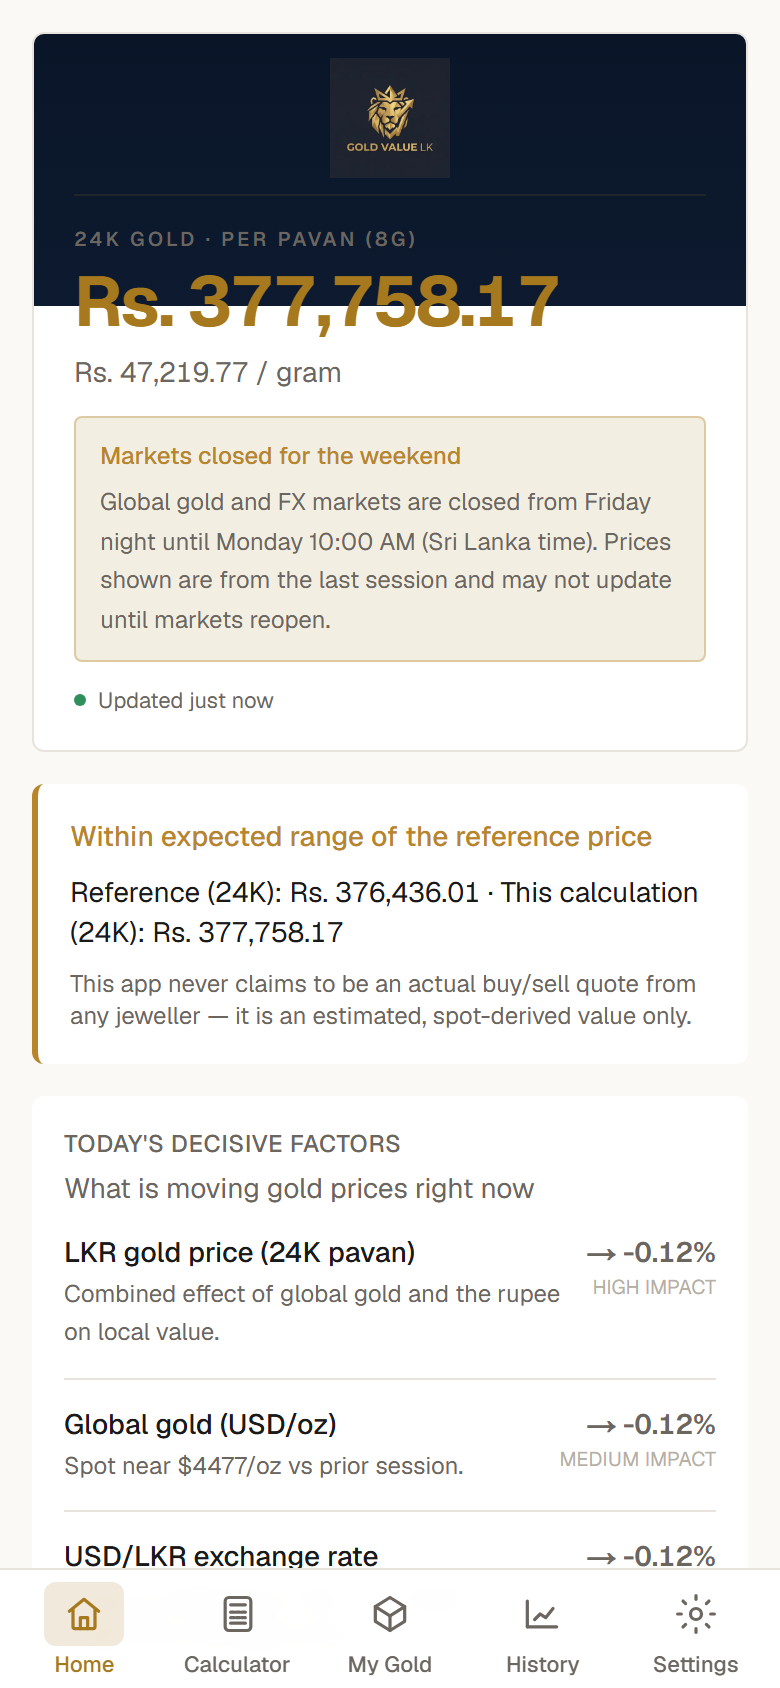
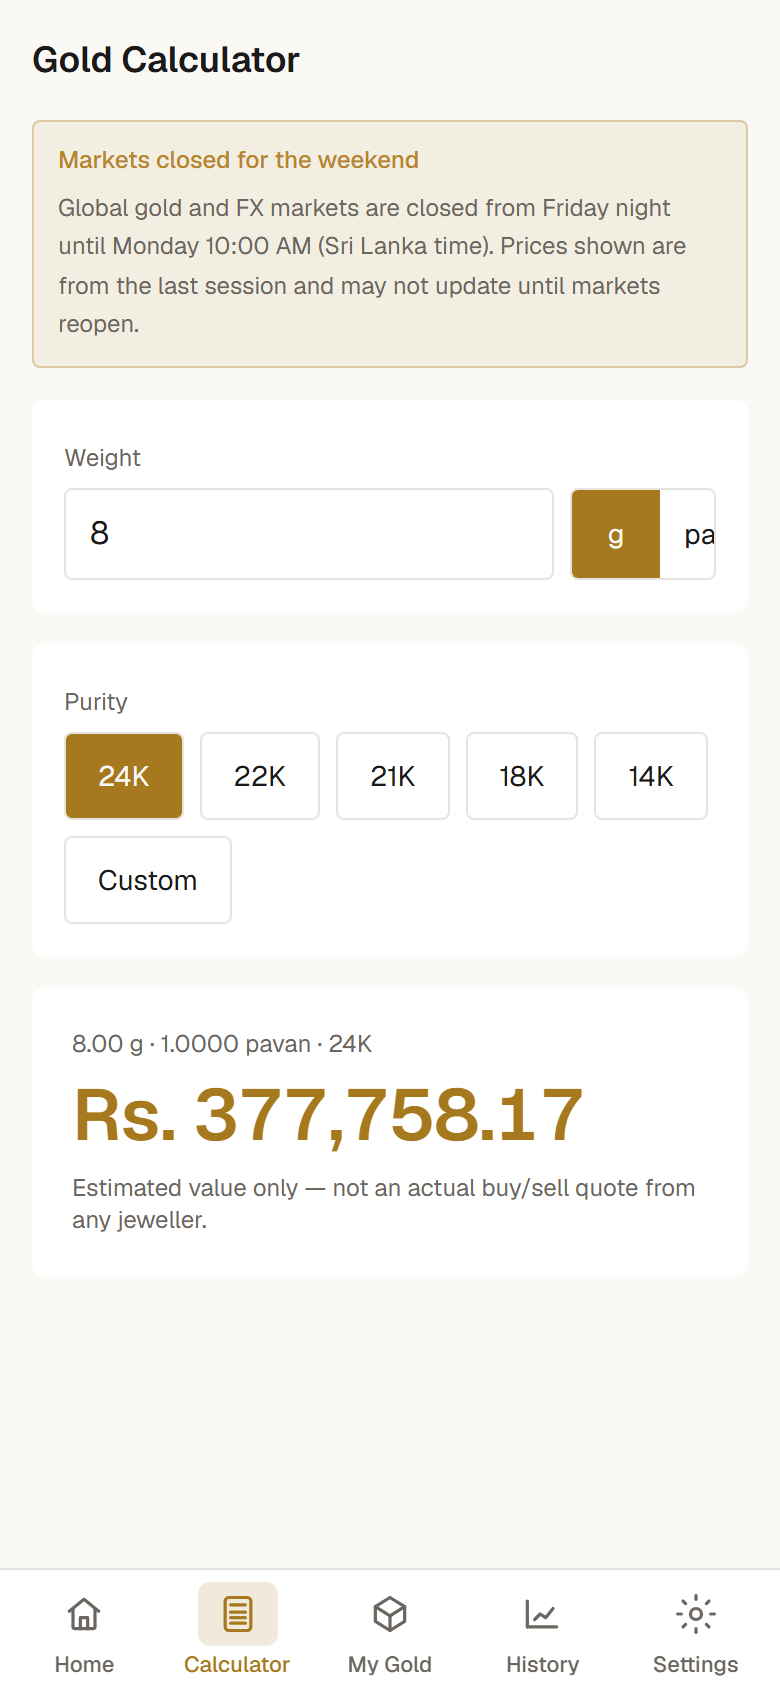
Fix Gold Calculator screenshot framing and capture calculator UI.
Use a phone aspect frame in product visuals and recapture the calculator screen so the portfolio image fills cleanly without letterboxing.

diff --git a/src/components/ProductVisual.tsx b/src/components/ProductVisual.tsx
@@ -28,6 +28,9 @@ export function ProductVisual({
     <div
       className={cn(
         "relative overflow-hidden rounded-2xl border border-ink-100 bg-white shadow-sm",
+        isMobile
+          ? "mx-auto aspect-[9/19] w-full max-w-[280px]"
+          : "aspect-[4/3]",
         className,
       )}
       role="img"
@@ -48,8 +51,9 @@ export function ProductVisual({
 
       <div
         className={cn(
-          "relative aspect-[4/3]",
-          isMobile ? "bg-ink-950" : "bg-ink-100",
+          "relative overflow-hidden",
+          isMobile ? "bg-[#f7f4ef]" : "bg-ink-100",
+          isMobile ? "h-full" : "aspect-[4/3]",
         )}
       >
         {product.screenshot ? (
@@ -58,11 +62,7 @@ export function ProductVisual({
             alt={`Screenshot of ${product.name}`}
             fill
             unoptimized
-            className={cn(
-              isMobile
-                ? "object-contain object-center"
-                : "object-cover object-top",
-            )}
+            className="object-cover object-top"
             sizes="(max-width: 768px) 100vw, (max-width: 1200px) 50vw, 720px"
           />
         ) : (

diff --git a/src/app/products/page.tsx b/src/app/products/page.tsx
@@ -107,7 +107,7 @@ export default function ProductsPage() {
 
               <Reveal className={cn(reversed && "lg:order-1")}>
                 <div className="rounded-3xl bg-gradient-to-b from-ink-50 to-white p-4 shadow-[0_30px_60px_-30px_rgba(11,13,20,0.35)] ring-1 ring-ink-100 md:p-6">
-                  <ProductVisual product={product} className="aspect-[4/3]" />
+                  <ProductVisual product={product} />
                 </div>
                 <p className="mt-4 text-center text-xs text-ink-400">
                   {product.presentationGoal}

diff --git a/src/components/ProductCard.tsx b/src/components/ProductCard.tsx
@@ -35,7 +35,7 @@ export function ProductCard({
         )}
       >
         <div className={cn("lg:order-last", reversed && "lg:order-first")}>
-          <ProductVisual product={product} className="aspect-[4/3]" />
+          <ProductVisual product={product} />
         </div>
 
         <div>
